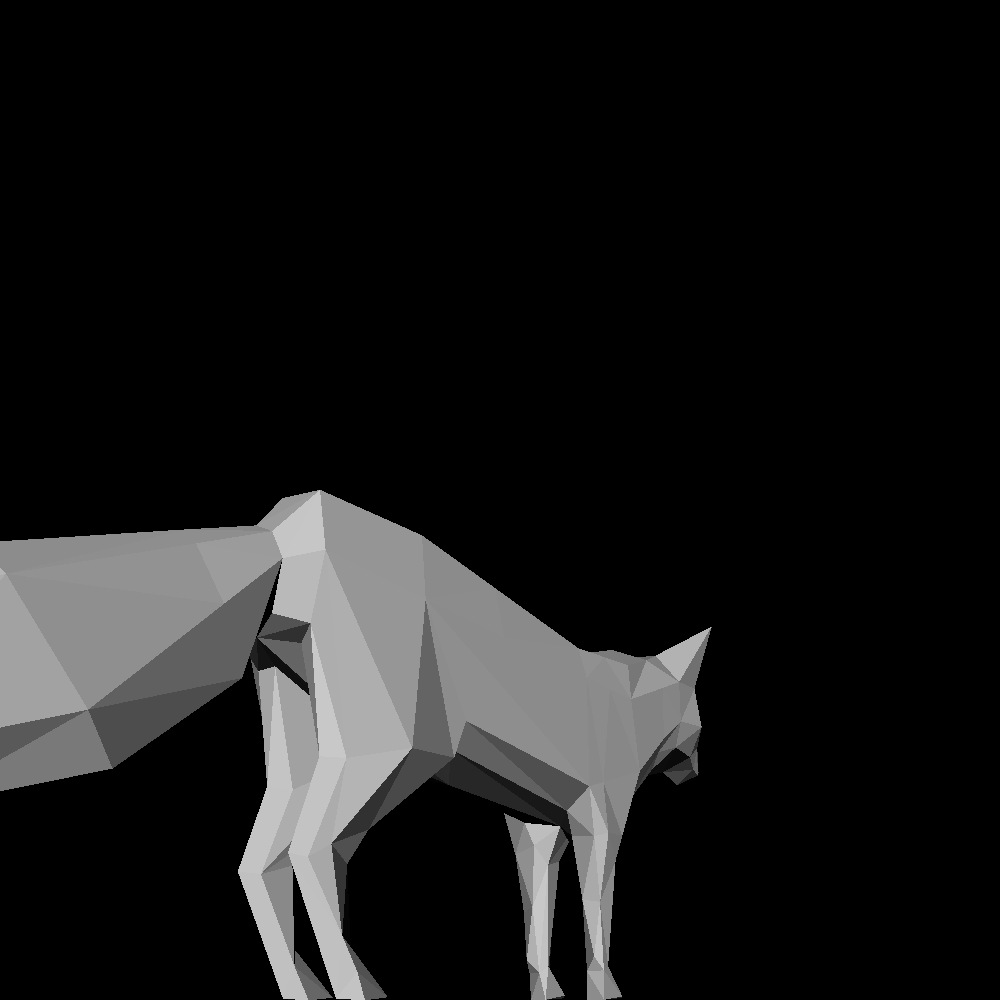
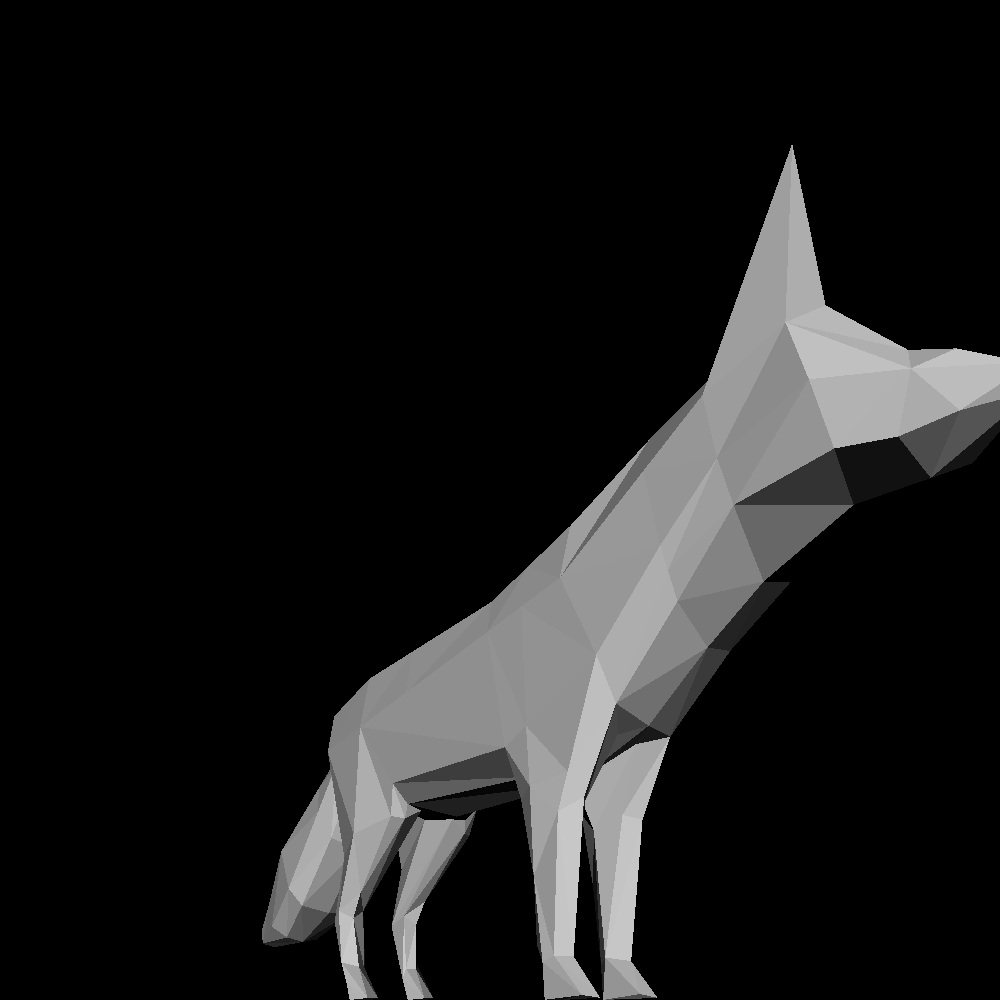
что-то исправил, что-то поломал

Changed region(s): [[0.0, 0.155, 1.0, 1.0]]

diff --git a/src/com/company/Main.java b/src/com/company/Main.java
@@ -48,7 +48,7 @@ public class Main {
             */
 
             // получаем объект 3д-модели из файла
-            SimpleObj stormTrooper = SimpleObjUtils.SimpleObjFromFile("obj/StormTrooper.obj");
+            //SimpleObj stormTrooper = SimpleObjUtils.SimpleObjFromFile("obj/StormTrooper.obj");
 
             /*
             // все вершины
@@ -114,7 +114,7 @@ public class Main {
 
             // получаем объект 3д-модели из файла
             SimpleObj fox = SimpleObjUtils.SimpleObjFromFile("obj/fox.obj");
-            SimpleObjUtils.RotateSimpleObj(fox,0,0.25*Math.PI,0);
+            SimpleObjUtils.RotateSimpleObj(fox,0,0.75*Math.PI,0);
             Picture picture0 = SimpleObjUtils.SimpleObjToPicture7(fox,1000,1000,600, 600,500,0, 100);
             PictureUtils.savePicture(picture0, "pictures/fox.png");
 

diff --git a/src/com/company/SimpleObjUtils.java b/src/com/company/SimpleObjUtils.java
@@ -69,6 +69,14 @@ public class SimpleObjUtils {
                         currInt=currInt*10+currChar-'0';
                 }
                 // после считывания строки сохраняем последнюю вершину при необходимости
+                if(currInt!=0){
+                    if(isNeg) currInt*=-1;
+                    // понимаем, за какой компонент вершины отвечает данное число
+                    if(k==0) v=currInt;
+                    else if(k==1) vt=currInt;
+                    else vn=currInt;
+                    currInt=0;
+                }
                 if(v!=0)
                     currPolygon.addVertice(new Vertice(v, vt, vn));
                 // добавляем полигон в список полигонов
